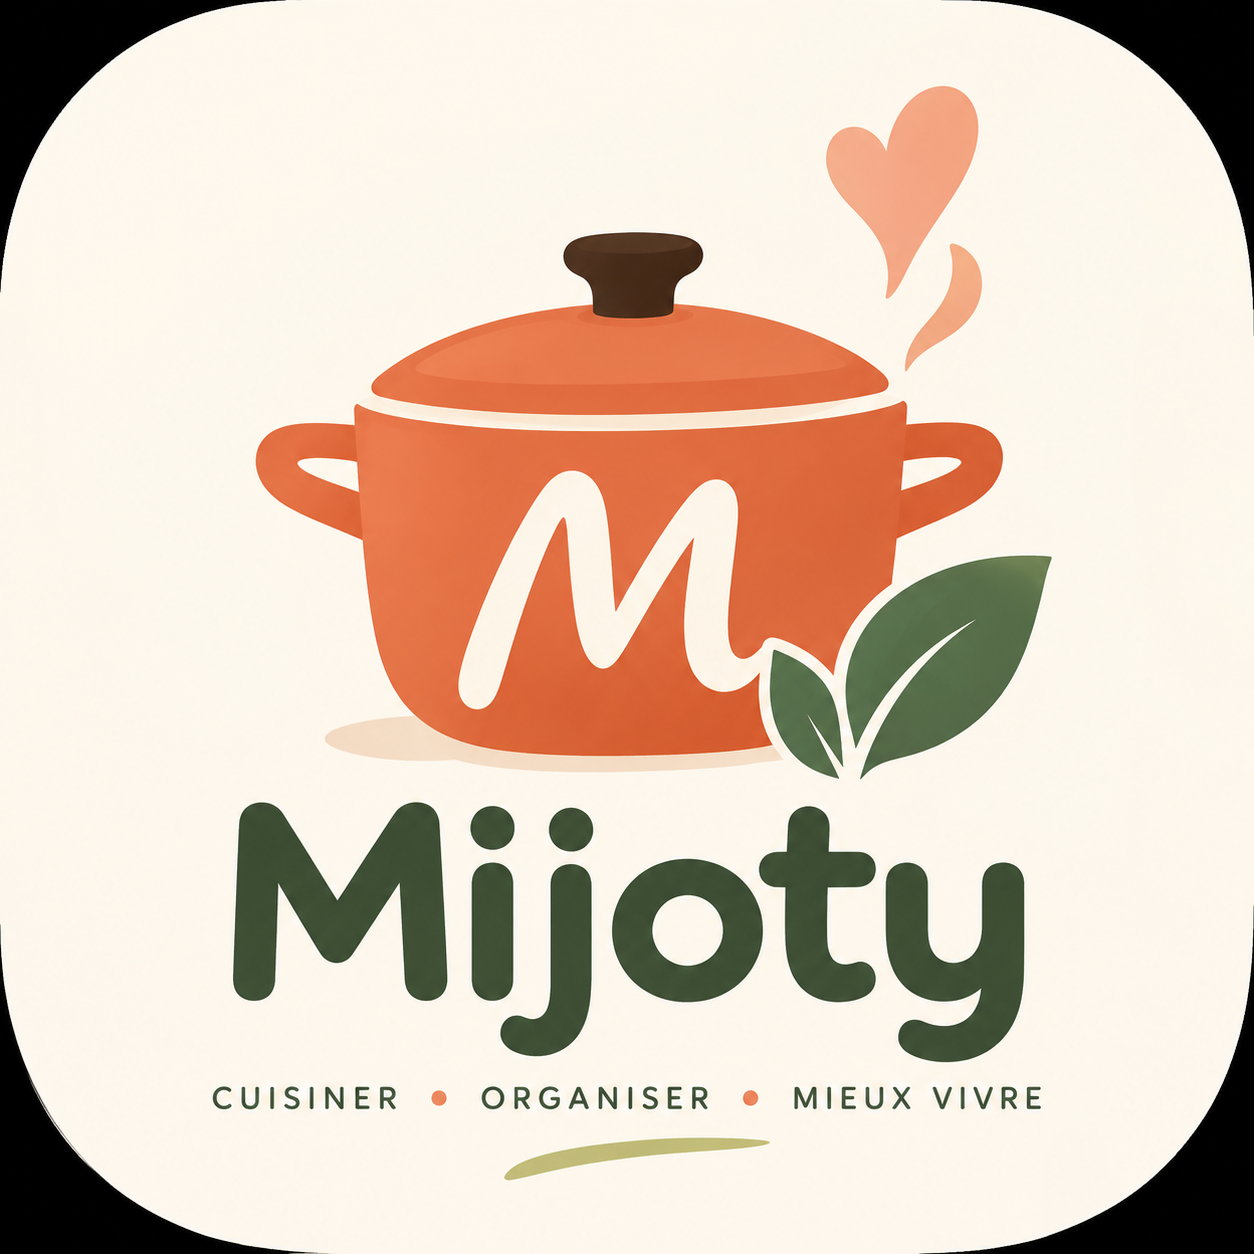
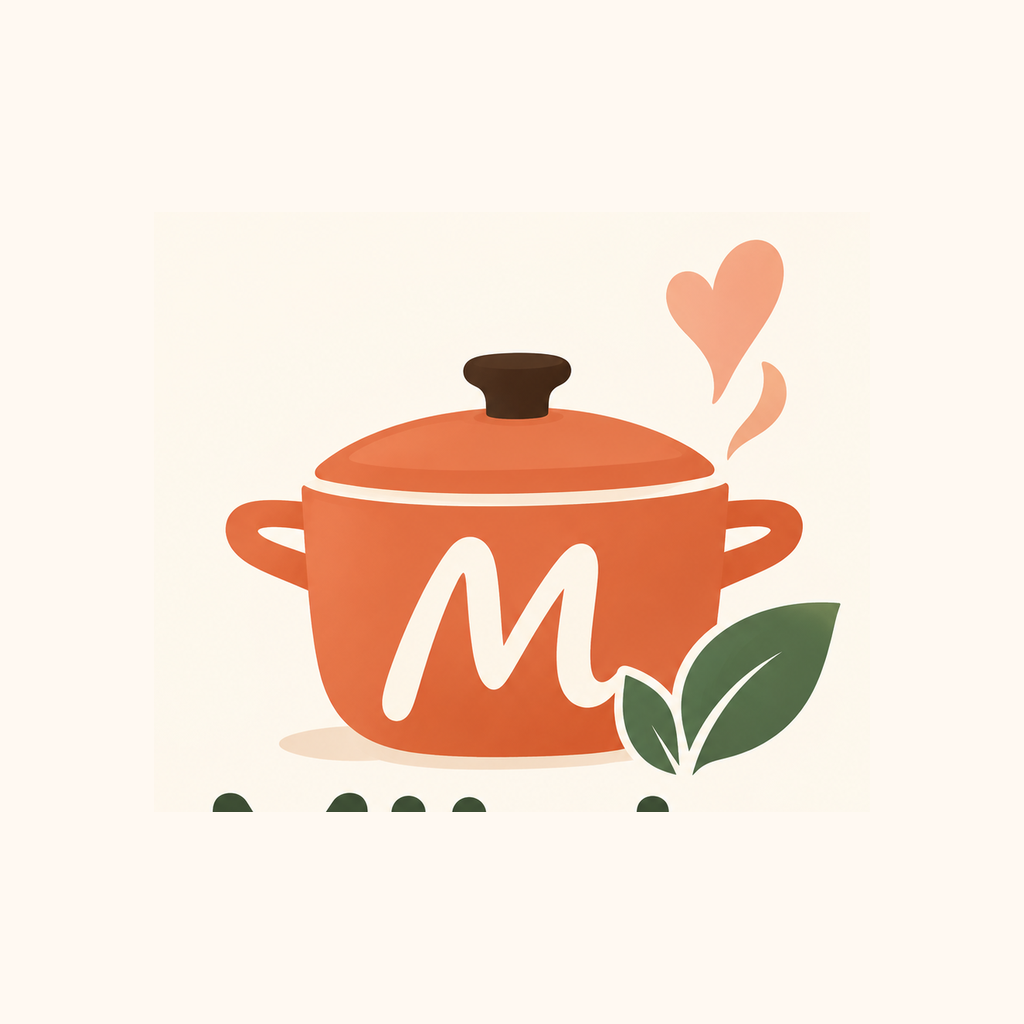
Add files via upload

diff --git a/app/+html.tsx b/app/+html.tsx
@@ -1,0 +1,24 @@
+import { ScrollViewStyleReset } from 'expo-router/html';
+import type { PropsWithChildren } from 'react';
+
+export default function Root({ children }: PropsWithChildren) {
+  return (
+    <html lang="fr">
+      <head>
+        <meta charSet="utf-8" />
+        <meta httpEquiv="X-UA-Compatible" content="IE=edge" />
+        <meta name="viewport" content="width=device-width, initial-scale=1, shrink-to-fit=no, viewport-fit=cover" />
+        <meta name="theme-color" content="#C96545" />
+        <meta name="application-name" content="Mijoty" />
+        <meta name="apple-mobile-web-app-capable" content="yes" />
+        <meta name="apple-mobile-web-app-status-bar-style" content="default" />
+        <meta name="apple-mobile-web-app-title" content="Mijoty" />
+        <link rel="manifest" href="/manifest.webmanifest" />
+        <link rel="icon" type="image/png" sizes="48x48" href="/icons/favicon-48.png" />
+        <link rel="apple-touch-icon" sizes="180x180" href="/icons/apple-touch-icon.png" />
+        <ScrollViewStyleReset />
+      </head>
+      <body>{children}</body>
+    </html>
+  );
+}

diff --git a/lib/version.ts b/lib/version.ts
@@ -1,1 +1,1 @@
-export const APP_VERSION = '1.10';
+export const APP_VERSION = '1.11';

diff --git a/README.md b/README.md
@@ -67,3 +67,15 @@ La recherche de prix utilise le web search de l'API OpenAI limité au domaine `c
 5. Sur mobile, supprimer puis réinstaller le raccourci/PWA si l'ancienne icône reste en cache.
 
 > Note : Chronodrive ne fournit pas ici d'API publique de prix utilisée par Mijoty. La récupération gratuite repose sur les pages publiques du site et peut donc cesser de fonctionner si Chronodrive modifie son site ou bloque les requêtes automatisées.
+
+## V1.11 — Correctif icône mobile / PWA
+
+- Ajout d'un `manifest.webmanifest` explicite pour l'installation Android/PWA.
+- Icônes dédiées 192×192 et 512×512.
+- Icône Android `maskable` avec zone de sécurité.
+- `apple-touch-icon` 180×180 pour iPhone/iPad.
+- Favicon web dédié.
+- Métadonnées PWA injectées via `app/+html.tsx`.
+- Version affichée : v1.11.
+
+Après déploiement, supprimer l'ancien raccourci Mijoty du téléphone, fermer/réouvrir le navigateur puis recréer le raccourci. Android peut conserver l'ancienne icône en cache tant que l'ancien raccourci existe.
